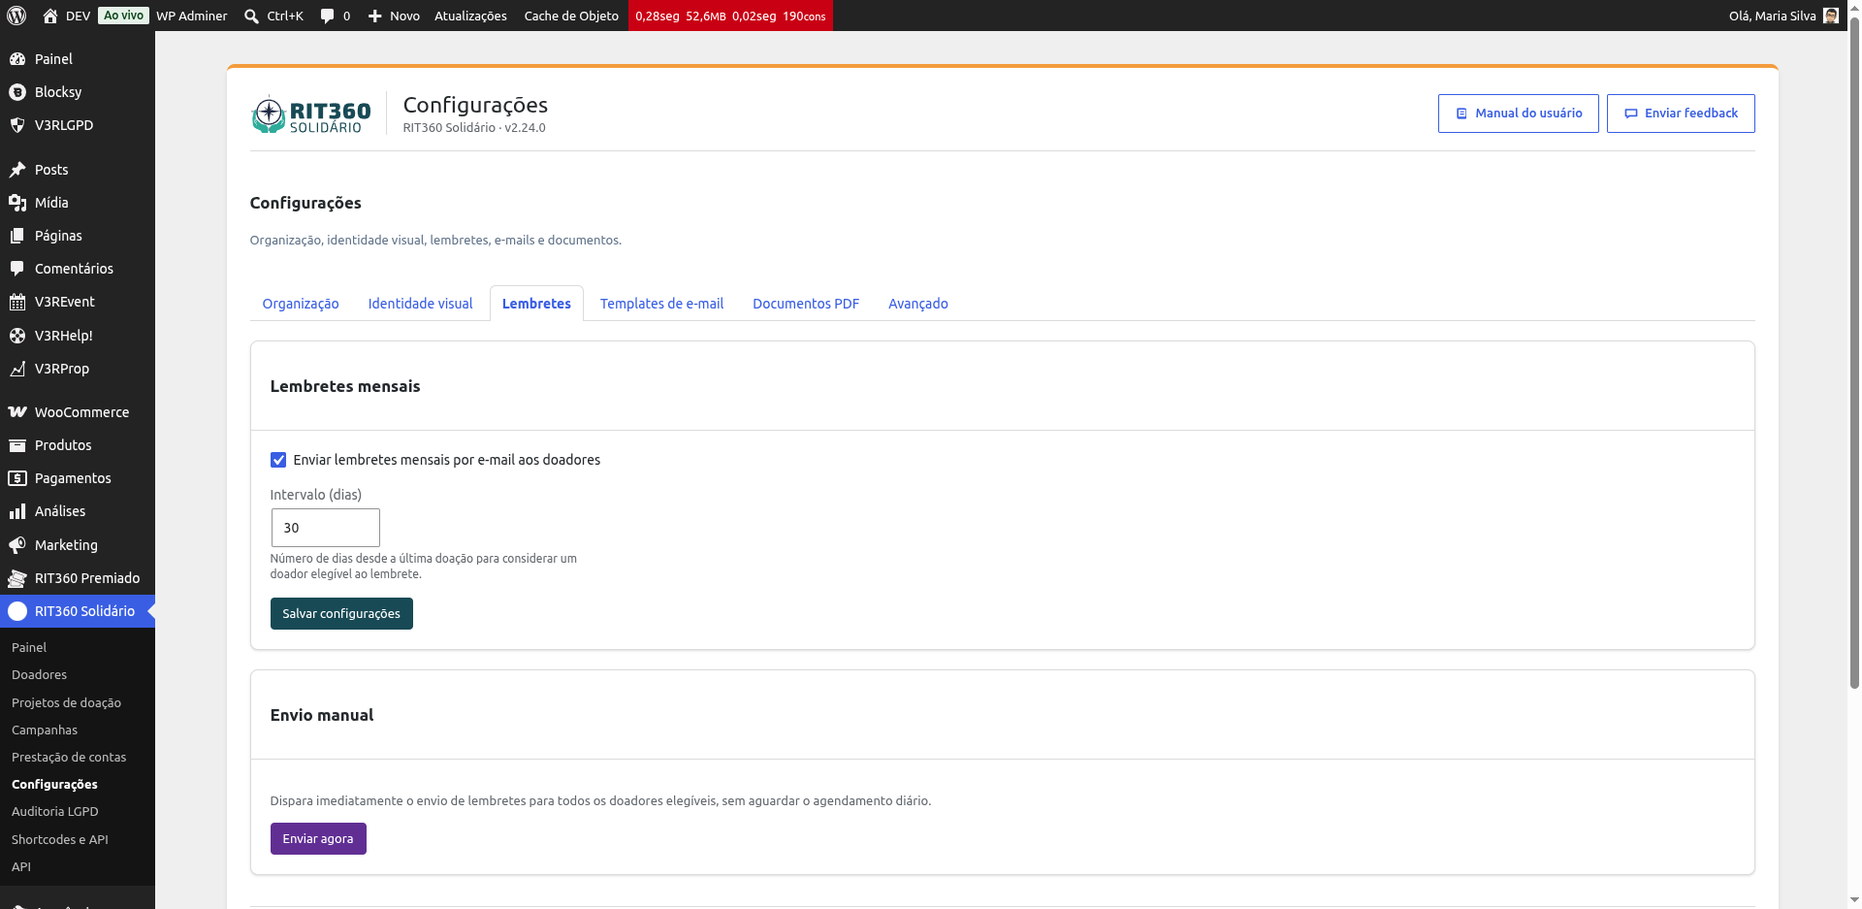
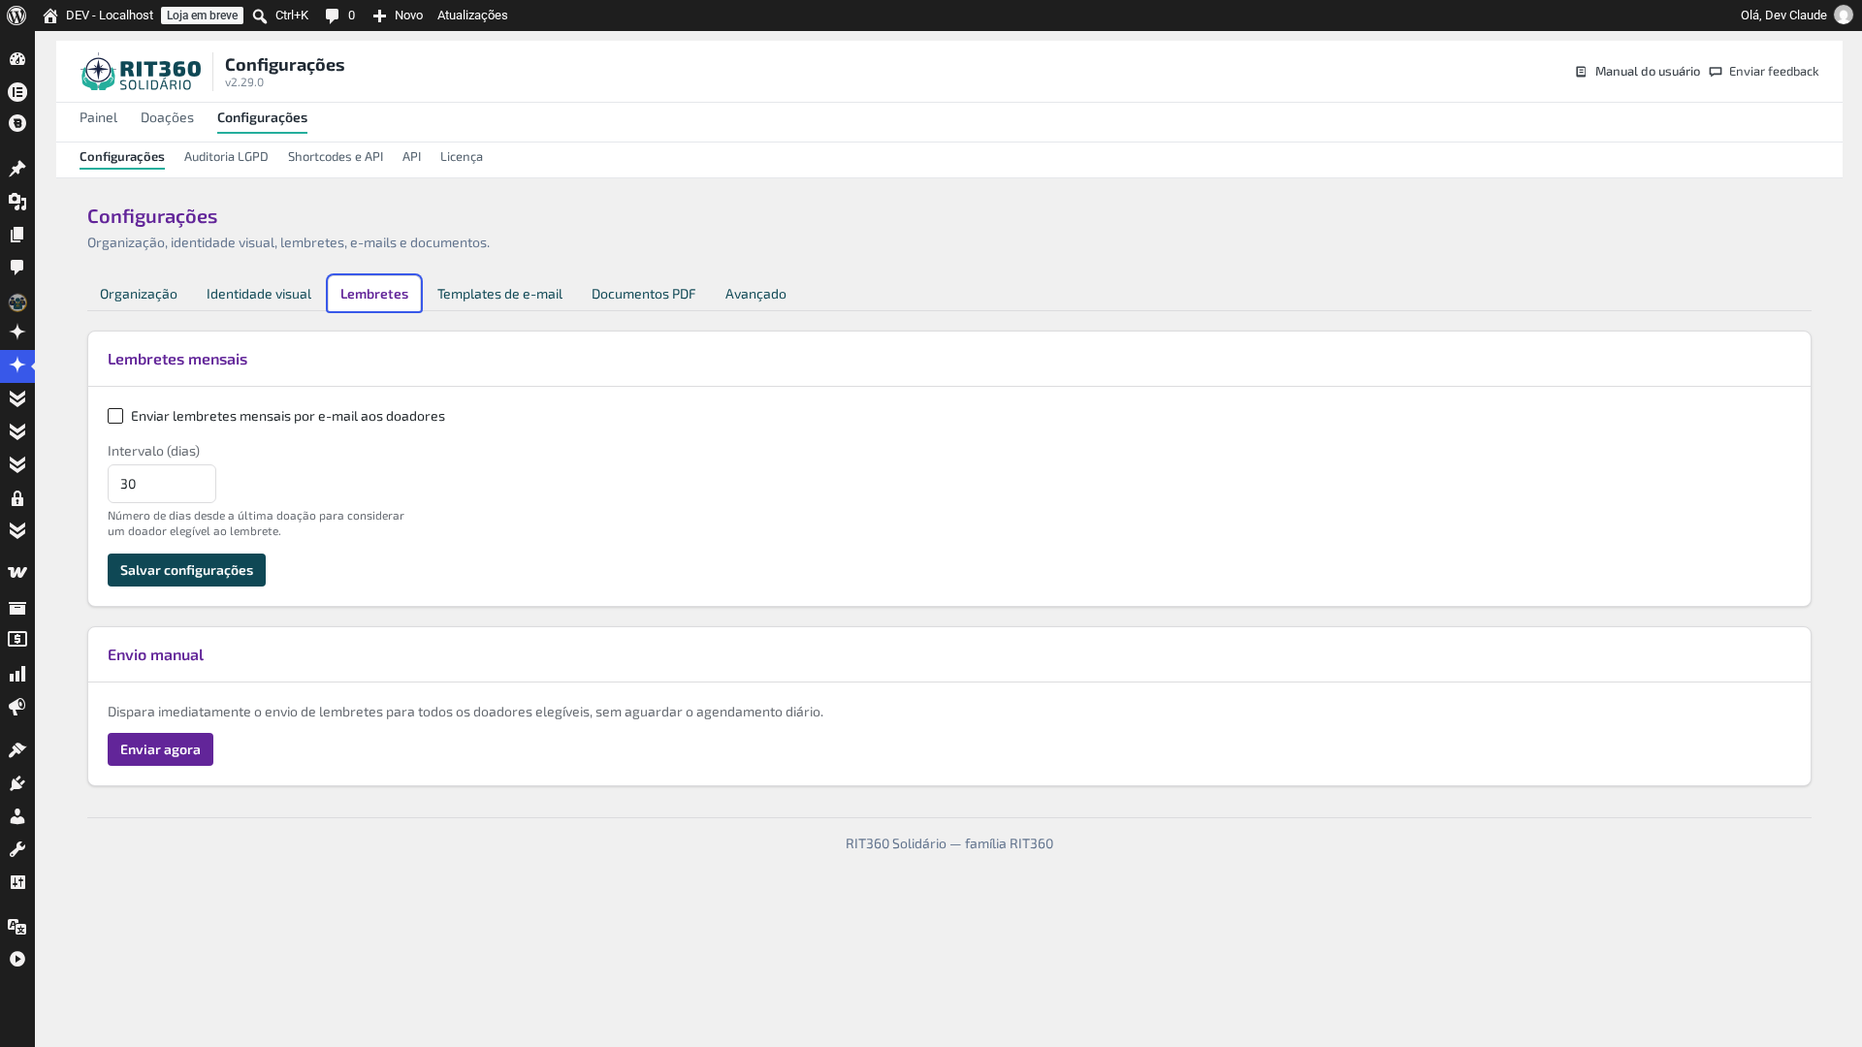
docs(manual): painel com entrada única e barra da família (2.28.0/2.29.0, RIT360-Solidario-Code#76)
Instruções de navegação reescritas para a barra; nova seção sobre cabeçalho,
barra, área de avisos e favoritos antigos; prints recapturados em desktop e
celular. Pendente: print do assistente de configuração inicial.

diff --git a/_manual/roteiro-prints.md b/_manual/roteiro-prints.md
@@ -38,32 +38,49 @@ UI PHP antiga. Recapturar quando houver a próxima mexida no plugin:
 - Esperar a tela carregar antes de capturar. Preferir viewport (não fullPage),
   exceto onde indicado "página inteira".
 
+> **Recaptura 2026-09-14 (plugin v2.29.0, issue #76):** o painel migrou para a peça
+> compartilhada da família — entrada única no menu lateral (`RIT360 Solidário`, sem
+> submenus), cabeçalho de largura cheia (não mais cartão centralizado com borda
+> laranja) e uma **barra de navegação** logo abaixo (Painel · Doações · Configurações,
+> com as sub-abas de cada grupo). As rotas passaram a ser **fragmentos dentro da
+> mesma página** (`admin.php?page=rit360-solidario#/donors`), não mais slugs próprios
+> — os endereços antigos (`page=rit360-solidario-donors` etc.) continuam funcionando
+> por redirecionamento, mas não são mais o caminho a capturar. **Todo o admin foi
+> recapturado** contra esse layout. Novos arquivos: `menu-entrada-unica.png` (+
+> `-mobile`), `painel-mobile.png`, `doacoes-grupo-aberto-mobile.png`,
+> `configuracoes-grupo-aberto-mobile.png`. `setup-wizard.png` **não** foi recapturado
+> (o assistente não tem barra e exigiria forçar o plugin a um estado de setup
+> incompleto, o que altera dados do ambiente — ver pendência abaixo).
+
 ## Admin — logado
 
 | Arquivo | Rota | Deve mostrar |
 |---|---|---|
-| `painel.png` | `/wp-admin/admin.php?page=rit360-solidario` | KPIs + Top 10 doadores |
-| `doadores-lista.png` | `…?page=rit360-solidario-donors` | Busca, tabela de doadores, ações em lote, blocos de exportação (página inteira) |
-| `doador-detalhe.png` | clicar num doador da lista (ex.: Roberto Nascimento) | Dados + Recibos + Declarações |
-| `projetos.png` | `…?page=rit360-solidario-projetos` | Lista de projetos com meta/campanha/padrão/**categoria** (`Doações › Nome do projeto`) + form "Novo projeto" (página inteira) |
-| `campanhas.png` | `…?page=rit360-solidario-campanhas` | Lista de campanhas com progresso vs meta |
-| `prestacao-contas.png` | `…?page=rit360-solidario-prestacao-contas` | Filtro de período + totais + quebra por campanha/projeto + evolução (página inteira) |
-| `config-organizacao.png` | `…?page=rit360-solidario-settings&tab=organizacao` | Formulário de dados da OSC |
-| `config-visual.png` | `…&tab=visual` | Cores + preview |
-| `config-lembretes.png` | `…&tab=lembretes` | Ativar lembretes + intervalo + envio manual |
-| `config-emails.png` | `…&tab=emails` | Templates (assunto+corpo TinyMCE) + botão único "Salvar todos os templates" (página inteira) |
-| `config-pdf.png` | `…&tab=pdf` | Cabeçalho/rodapé/recibo/declaração + pré-visualizar (página inteira) |
-| `config-avancado.png` | `…&tab=avancado` | Reset de rate limit do magic link |
-| `auditoria-lgpd.png` | `…?page=rit360-solidario-lgpd` | Aviso ROPA + tabela de auditoria |
-| `shortcodes-tela.png` | `…?page=rit360-solidario-shortcodes` | Referência dos shortcodes em cards (tag + exemplo copiável + parâmetros), página inteira — v2.7.0 |
-| `setup-wizard.png` | `…?page=bs-setup` | Passo 1 do Setup Wizard (Organização) |
+| `menu-entrada-unica.png` (+ `-mobile`) | menu lateral do WordPress, expandido | A entrada única **RIT360 Solidário**, sem submenus abaixo dela |
+| `painel.png` (+ `-mobile`) | `/wp-admin/admin.php?page=rit360-solidario` | Cabeçalho + barra (Painel · Doações · Configurações) + KPIs/estado vazio |
+| `doadores-lista.png` / `doacoes-grupo-aberto-mobile.png` | `…admin.php?page=rit360-solidario#/donors` | Barra com o grupo **Doações** aberto (Doadores · Projetos de doação · Campanhas · Prestação de contas); busca, tabela, ações em lote, exportações |
+| `doador-detalhe.png` | clicar num doador da lista | Dados + Recibos + Declarações |
+| `projetos.png` (+ `-mobile`) | `…#/projects` | Lista de projetos com meta/campanha/padrão/**categoria** + form "Novo projeto" |
+| `campanhas.png` | `…#/campaigns` | Lista de campanhas com progresso vs meta |
+| `prestacao-contas.png` | `…#/accountability` | Filtro de período + totais + quebra por campanha/projeto + evolução |
+| `config-organizacao.png` / `configuracoes-grupo-aberto-mobile.png` | `…#/settings` | Barra com o grupo **Configurações** aberto (Configurações · Auditoria LGPD · Shortcodes e API · API · Licença) e as sub-abas internas (Organização · Identidade visual · Lembretes · Templates de e-mail · Documentos PDF · Avançado) |
+| `config-visual.png` | `…#/settings/visual` | Cores + preview |
+| `config-lembretes.png` | `…#/settings/lembretes` | Ativar lembretes + intervalo + envio manual |
+| `config-emails.png` | `…#/settings/emails` | Templates (assunto+corpo TinyMCE) + botão único "Salvar todos os templates" |
+| `config-pdf.png` | `…#/settings/pdf` | Cabeçalho/rodapé/recibo/declaração + pré-visualizar |
+| `config-avancado.png` | `…#/settings/avancado` | Reset de rate limit do magic link |
+| `auditoria-lgpd.png` | `…#/lgpd` | Aviso ROPA + tabela de auditoria |
+| `shortcodes-tela.png` | `…#/shortcodes` | Referência dos shortcodes em cards |
+| `api-chaves.png` | `…#/api` | Endereço base, Nova chave, Chaves, Webhooks |
+| `licenca.png` | `…#/license` | Status + ativação |
+| `setup-wizard.png` | `…?page=bs-setup` — **⏳ pendente de recaptura**, exige plugin em modo setup | Passo 1 do assistente (o assistente não tem barra por desenho) |
 | `produto-doacao.png` | editar produto 67 (`/wp-admin/post.php?post=67&action=edit`), aba "Configuração de Doação" | Campos: valores, valor livre, frase de impacto, vídeo |
 | `feedback-modal.png` | qualquer tela do plugin → clicar "Enviar feedback" | Modal de feedback |
 
-## API e integrações — `api-chaves.png` (capturada em v2.24.0)
+## API e integrações — `api-chaves.png` (recapturada em v2.29.0)
 
-Rota: menu **RIT360 Solidário → Shortcodes e API → API** (submenu "API"). Página inteira,
-admin logado, 1920×1080. A tela agrupa numa só captura: **endereço base**, **Nova chave**
+Rota: `admin.php?page=rit360-solidario#/api` (grupo **Configurações** na barra, aba
+**API**). Página inteira, admin logado, 1920×1080. A tela agrupa numa só captura: **endereço base**, **Nova chave**
 (rótulo + escopos + validade), **Chaves** (com estados *Ativa*/*Expirada*/*Revogada*),
 **Novo destino** de webhook, **Webhooks** e **Últimas entregas** (com entrega *failed* +
 tooltip de erro). Referenciada em `modulos/api-integracoes.md` (front-matter `screenshots:

diff --git a/primeiros-passos.md b/primeiros-passos.md
@@ -4,10 +4,10 @@ nav_order: 2
 permalink: /primeiros-passos/
 task: primeiros-passos
 role: admin
-routes: ["#/wp-admin/admin.php?page=bs-setup", "#/wp-admin/admin.php?page=rit360-solidario"]
-screenshots: [setup-wizard, painel, doe-pagina, feedback-modal]
+routes: ["admin.php?page=rit360-solidario#/wizard", "admin.php?page=rit360-solidario"]
+screenshots: [setup-wizard, menu-entrada-unica, painel, doacoes-grupo-aberto-mobile, feedback-modal, doe-pagina]
 source_docs: [PRD#5.4, PRODUCT.md]
-last_verified: 2026-07-21
+last_verified: 2026-09-14
 status: publicado
 ---
 
@@ -36,23 +36,50 @@ Antes de começar, vale entender os dois papéis:
 > desistência — e ainda evita guardar mais dados pessoais do que o necessário
 > (um princípio da LGPD).
 
-## O cabeçalho das telas do plugin
+## Como navegar no painel
 
-Todas as telas do RIT360 Solidário no painel administrativo têm um **cabeçalho**
-no topo, com a logomarca à esquerda e, logo abaixo do título, o nome da seção e a
-**versão instalada** (por exemplo, “RIT360 Solidário · v2.24.0”). É o jeito rápido
-de conferir qual versão você está usando.
+Tudo do RIT360 Solidário mora numa **única entrada** no menu lateral do WordPress
+— não existe mais o menu com um item para cada tela. Ao clicar em **RIT360
+Solidário**, você entra no painel e navega por dentro dele, com três peças:
 
-No canto superior direito ficam dois botões, presentes em **qualquer tela** do
-plugin:
+![Menu lateral com a entrada única](/assets/img/menu-entrada-unica.png)
 
-- **Manual do usuário** — abre este manual on-line.
-- **Enviar feedback** — abre uma janela para você relatar um problema, mandar uma
-  sugestão, deixar um elogio ou registrar um depoimento. Escolha o tipo, escreva a
-  mensagem (seu e-mail já vem preenchido para retorno) e, se quiser, anexe imagens
-  ou um PDF. É o canal direto para falar com a equipe do produto.
+- **Cabeçalho.** No topo de toda tela, com a logomarca à esquerda e, ao lado do
+  título da tela atual, a **versão instalada** (por exemplo, “v2.29.0”) — o jeito
+  rápido de conferir qual versão você está usando. No canto direito ficam dois
+  botões presentes em **qualquer tela**: **Manual do usuário** (abre este manual
+  on-line) e **Enviar feedback** (abre uma janela para você relatar um problema,
+  mandar uma sugestão, deixar um elogio ou registrar um depoimento — escolha o
+  tipo, escreva a mensagem, com seu e-mail já preenchido para retorno, e anexe
+  imagens ou um PDF se quiser).
 
-![A janela “Enviar feedback”](/assets/img/feedback-modal.png)
+  ![A janela “Enviar feedback”](/assets/img/feedback-modal.png)
+
+- **Barra de navegação.** Logo abaixo do cabeçalho, é por ela que você troca de
+  tela: **Painel** (solto) · **Doações** (Doadores, Projetos de doação, Campanhas,
+  Prestação de contas) · **Configurações** (Configurações, Auditoria LGPD,
+  Shortcodes e API, API, Licença — confira na sua tela quais desses grupos e
+  abas aparecem, porque isso pode variar). A tela em que você está fica marcada em
+  verde-azulado, e clicar num grupo abre as abas de dentro dele.
+
+  ![O grupo Doações aberto na barra](/assets/img/doacoes-grupo-aberto-mobile.png)
+
+- **Área de avisos.** Abaixo da barra, os avisos do próprio WordPress (por
+  exemplo, sobre atualização disponível) ganharam um lugar próprio — eles não se
+  misturam mais com o conteúdo da tela.
+
+> 💡 **Favorito antigo continua funcionando**
+>
+> Se você salvou um atalho ou favorito para um endereço antigo (de antes desta
+> versão), ele continua levando à tela certa — inclusive **Configurações** lembra
+> em qual aba você estava. Não precisa refazer os favoritos.
+
+> ⚠ **Configuração inicial incompleta**
+>
+> Enquanto o assistente de configuração não for concluído, a entrada **RIT360
+> Solidário** abre direto o assistente, e a barra de navegação não aparece —
+> ela só existe depois que a configuração inicial está pronta. Veja o passo a
+> passo em [3. O Assistente de configuração](#3-o-assistente-de-configuração-3-passos).
 
 ## 1. Requisitos
 
@@ -107,8 +134,9 @@ doação, gerenciar produtos e reabrir o assistente.
 
 ## 4. Conferir que está tudo pronto
 
-Abra o menu **RIT360 Solidário → Painel**. Ele mostra os indicadores da sua
-operação — no começo, tudo zerado, com um convite para receber a primeira doação.
+Entre em **RIT360 Solidário** — a primeira tela já é o **Painel**. Ele mostra os
+indicadores da sua operação — no começo, tudo zerado, com um convite para
+receber a primeira doação.
 
 ![Painel do RIT360 Solidário](/assets/img/painel.png)
 

diff --git a/guias/campanhas-que-dao-resultado.md b/guias/campanhas-que-dao-resultado.md
@@ -5,10 +5,10 @@ parent: "Guias e boas práticas"
 permalink: /guias/campanhas-que-dao-resultado/
 task: guia-campanhas
 role: admin
-routes: ["#/wp-admin/admin.php?page=rit360-solidario-campanhas", "#/wp-admin/admin.php?page=rit360-solidario-projetos"]
+routes: ["admin.php?page=rit360-solidario#/campaigns", "admin.php?page=rit360-solidario#/projects"]
 screenshots: [campanhas, projetos, transparencia]
 source_docs: [PRODUCT.md, PRD]
-last_verified: 2026-07-15
+last_verified: 2026-09-14
 status: publicado
 ---
 
@@ -68,14 +68,14 @@ ninguém doa hoje o que pode doar “qualquer dia”.
 
 ## Passo 3 — Monte no plugin
 
-1. Em **RIT360 Solidário → Projetos de doação**, crie (ou ajuste) os projetos da
-   campanha: nome, valores sugeridos, valor livre e, se quiser, a meta do
-   projeto. Enriqueça a página com imagem, **frase de impacto**, vídeo e
-   descrição — isso aumenta a conversão.
+1. Em **RIT360 Solidário**, grupo **Doações** na barra, aba **Projetos de
+   doação**, crie (ou ajuste) os projetos da campanha: nome, valores sugeridos,
+   valor livre e, se quiser, a meta do projeto. Enriqueça a página com imagem,
+   **frase de impacto**, vídeo e descrição — isso aumenta a conversão.
 
    ![Projetos de doação](/assets/img/projetos.png)
 
-2. Em **RIT360 Solidário → Campanhas**, crie a campanha: nome, descrição, meta,
+2. Na mesma barra, aba **Campanhas**, crie a campanha: nome, descrição, meta,
    início e prazo. Depois, **atribua os projetos** a ela.
 
    ![Campanhas](/assets/img/campanhas.png)
@@ -112,7 +112,8 @@ O fim de uma campanha é o começo da próxima. Quem se sente reconhecido e vê 
 dinheiro chegou onde deveria, doa de novo.
 
 - Todo doador já recebe **agradecimento e recibo automáticos**. Personalize o
-  tom desses e-mails em [Configurações → Templates de e-mail](/modulos/configuracoes/).
+  tom desses e-mails na aba **Templates de e-mail**, dentro de
+  [Configurações](/modulos/configuracoes/).
 - Ative o **lembrete mensal** para convidar quem optou por recebê-lo a repetir a
   doação (recorrência “soft”, sem assinatura e com cancelamento em um clique).
 - Feche a campanha com uma **prestação de contas**: gere o relatório em PDF/CSV/XLSX

diff --git a/modulos/index.md b/modulos/index.md
@@ -8,8 +8,11 @@ permalink: /modulos/
 # Módulos
 
 Referência tela a tela do RIT360 Solidário. Cada página descreve o que o módulo
-faz e todas as suas opções. Os módulos ficam no menu **RIT360 Solidário** do
-painel do WordPress; os fluxos do doador acontecem no site público.
+faz e todas as suas opções. Todos os módulos administrativos ficam dentro da
+entrada única **RIT360 Solidário** do menu lateral do WordPress — você troca
+entre eles pela barra de navegação do painel (veja
+[Como navegar no painel](/primeiros-passos/#como-navegar-no-painel)); os fluxos
+do doador acontecem no site público.
 
 ## No painel administrativo
 
@@ -33,12 +36,14 @@ painel do WordPress; os fluxos do doador acontecem no site público.
 - [**Shortcodes**](/modulos/shortcodes/) — para montar páginas no seu construtor.
 - [**API e integrações**](/modulos/api-integracoes/) — conecte o plugin ao n8n e outros sistemas (API REST e webhooks).
 
-## O cabeçalho das telas
+## Cabeçalho, barra e avisos
 
 No topo de todas as telas do plugin há um **cabeçalho** com a logomarca, o nome da
-seção e a **versão instalada**. No canto direito ficam o link para este **Manual do
-usuário** e o botão **Enviar feedback** — por ele você fala direto com a equipe
-(relatar um problema, sugerir uma melhoria, deixar um elogio ou registrar um
-depoimento). Veja os detalhes em [Primeiros passos](/primeiros-passos/#o-cabecalho-das-telas-do-plugin).
+seção e a **versão instalada**, e logo abaixo dele a **barra de navegação** por
+onde você troca de tela. No canto direito do cabeçalho ficam o link para este
+**Manual do usuário** e o botão **Enviar feedback** — por ele você fala direto com
+a equipe (relatar um problema, sugerir uma melhoria, deixar um elogio ou registrar
+um depoimento). Veja os detalhes em
+[Como navegar no painel](/primeiros-passos/#como-navegar-no-painel).
 
 ![Modal de envio de feedback](/assets/img/feedback-modal.png)

diff --git a/modulos/api-integracoes.md b/modulos/api-integracoes.md
@@ -5,10 +5,10 @@ parent: "Módulos"
 permalink: /modulos/api-integracoes/
 task: modulo-api-integracoes
 role: admin
-routes: ["#/wp-admin/admin.php?page=rit360-solidario-shortcodes"]
+routes: ["admin.php?page=rit360-solidario#/api"]
 screenshots: [api-chaves]
 source_docs: [PRODUCT.md, CHANGELOG.md]
-last_verified: 2026-07-21
+last_verified: 2026-09-14
 status: publicado
 ---
 
@@ -20,7 +20,8 @@ qualquer aplicativo que fale HTTP. Com ela você pode, por exemplo, mandar cada 
 doação para uma planilha, avisar a equipe no chat quando bater a meta de uma campanha,
 ou criar campanhas a partir de outro sistema.
 
-Tudo é gerenciado no menu **RIT360 Solidário → Shortcodes e API**, na aba **API**.
+Tudo é gerenciado em **RIT360 Solidário**, grupo **Configurações** na barra de
+navegação, aba **API**.
 
 > 💡 **Nota — para quem é esta página**
 >
@@ -52,7 +53,7 @@ está acessando e **o que essa integração pode fazer** (os escopos).
 
 ### Criar uma chave
 
-1. Abra **RIT360 Solidário → Shortcodes e API** e vá à aba **API**.
+1. Entre em **RIT360 Solidário**, abra o grupo **Configurações** na barra e vá à aba **API**.
 2. Em **Chaves de integração**, clique em **Nova chave**.
 3. Dê um **nome** que ajude a lembrar para que serve (ex.: "n8n — planilha de doações").
 4. Marque as **permissões (escopos)** que essa chave precisa — e **apenas** essas (veja

diff --git a/modulos/shortcodes.md b/modulos/shortcodes.md
@@ -5,10 +5,10 @@ parent: "Módulos"
 permalink: /modulos/shortcodes/
 task: modulo-shortcodes
 role: admin
-routes: ["#/wp-admin/admin.php?page=rit360-solidario-shortcodes"]
+routes: ["admin.php?page=rit360-solidario#/shortcodes"]
 screenshots: [shortcodes-tela]
 source_docs: [PRODUCT.md]
-last_verified: 2026-07-21
+last_verified: 2026-09-14
 status: publicado
 ---
 
@@ -19,9 +19,10 @@ Shortcodes são pequenos códigos que você cola em qualquer página, post ou co
 do RIT360 Solidário. É assim que você monta o hotsite de uma campanha com as peças do
 plugin.
 
-No painel, o menu **RIT360 Solidário → Shortcodes e API** traz esta mesma referência, com
-um botão **Copiar** ao lado de cada exemplo. A aba **API** dessa mesma tela cuida das
-integrações com o n8n e outros sistemas — veja [API e integrações](/modulos/api-integracoes/).
+No painel, entre em **RIT360 Solidário**, abra o grupo **Configurações** na barra de
+navegação e escolha **Shortcodes e API** — a tela traz esta mesma referência, com um
+botão **Copiar** ao lado de cada exemplo. A aba **API**, ao lado dela nesse mesmo grupo,
+cuida das integrações com o n8n e outros sistemas — veja [API e integrações](/modulos/api-integracoes/).
 
 ![Tela Shortcodes no painel](/assets/img/shortcodes-tela.png)
 

diff --git a/modulos/licenca.md b/modulos/licenca.md
@@ -5,10 +5,10 @@ parent: "Módulos"
 permalink: /modulos/licenca/
 task: modulo-licenca
 role: admin
-routes: ["#/wp-admin/admin.php?page=rit360-solidario-license"]
+routes: ["admin.php?page=rit360-solidario#/license"]
 screenshots: [licenca]
 source_docs: [PRODUCT.md]
-last_verified: 2026-08-28
+last_verified: 2026-09-14
 status: publicado
 ---
 
@@ -24,13 +24,14 @@ status: publicado
 
 ## Onde fica
 
-Menu **RIT360 Solidário → Licença**.
+Entre em **RIT360 Solidário** e abra o grupo **Configurações** na barra de
+navegação; a aba **Licença** é a última desse grupo.
 
 ![Licença — nenhuma ativada](/assets/img/licenca.png)
 
 ## Como ativar
 
-1. Abra **RIT360 Solidário → Licença**.
+1. Abra **RIT360 Solidário**, grupo **Configurações** na barra, aba **Licença**.
 2. No bloco **Ativar licença**, cole a **chave de licença** (formato `V3RL-XXXX-XXXX-XXXX-XXXX`) no
    campo **Chave de licença**.
 3. Clique em **Ativar**.

diff --git a/modulos/painel.md b/modulos/painel.md
@@ -5,17 +5,18 @@ parent: "Módulos"
 permalink: /modulos/painel/
 task: modulo-painel
 role: admin
-routes: ["#/wp-admin/admin.php?page=rit360-solidario"]
+routes: ["admin.php?page=rit360-solidario"]
 screenshots: [painel]
 source_docs: [PRODUCT.md]
-last_verified: 2026-07-21
+last_verified: 2026-09-14
 status: publicado
 ---
 
 # Painel
 
-O Painel é a primeira tela do menu **RIT360 Solidário**. Ele resume a sua
-operação de doações no período escolhido.
+O Painel é a primeira tela ao entrar em **RIT360 Solidário** — o item **Painel**
+solto na barra de navegação, antes dos grupos Doações e Configurações. Ele resume
+a sua operação de doações no período escolhido.
 
 ![Painel](/assets/img/painel.png)
 

diff --git a/modulos/auditoria-lgpd.md b/modulos/auditoria-lgpd.md
@@ -5,10 +5,10 @@ parent: "Módulos"
 permalink: /modulos/auditoria-lgpd/
 task: modulo-lgpd
 role: admin
-routes: ["#/wp-admin/admin.php?page=rit360-solidario-lgpd"]
+routes: ["admin.php?page=rit360-solidario#/lgpd"]
 screenshots: [auditoria-lgpd]
 source_docs: [solidario-privacy-ropa.md, solidario-privacy-ropa.md#26, solidario-privacy-ropa.md#27, solidario-privacy-ropa.md#29]
-last_verified: 2026-07-21
+last_verified: 2026-09-14
 status: publicado
 ---
 

diff --git a/modulos/configuracoes.md b/modulos/configuracoes.md
@@ -5,10 +5,10 @@ parent: "Módulos"
 permalink: /modulos/configuracoes/
 task: modulo-configuracoes
 role: admin
-routes: ["#/wp-admin/admin.php?page=rit360-solidario-settings"]
+routes: ["admin.php?page=rit360-solidario#/settings"]
 screenshots: [config-organizacao, config-visual, config-lembretes, config-emails, config-pdf, config-avancado]
 source_docs: [PRODUCT.md]
-last_verified: 2026-07-21
+last_verified: 2026-09-14
 status: publicado
 ---
 

diff --git a/modulos/prestacao-contas.md b/modulos/prestacao-contas.md
@@ -5,10 +5,10 @@ parent: "Módulos"
 permalink: /modulos/prestacao-contas/
 task: modulo-prestacao-contas
 role: admin
-routes: ["#/wp-admin/admin.php?page=rit360-solidario-prestacao-contas"]
+routes: ["admin.php?page=rit360-solidario#/accountability"]
 screenshots: [prestacao-contas]
 source_docs: [PRODUCT.md]
-last_verified: 2026-07-21
+last_verified: 2026-09-14
 status: publicado
 ---
 

diff --git a/modulos/doadores.md b/modulos/doadores.md
@@ -5,10 +5,10 @@ parent: "Módulos"
 permalink: /modulos/doadores/
 task: modulo-doadores
 role: admin
-routes: ["#/wp-admin/admin.php?page=rit360-solidario-donors"]
+routes: ["admin.php?page=rit360-solidario#/donors"]
 screenshots: [doadores-lista, doador-detalhe]
 source_docs: [PRODUCT.md]
-last_verified: 2026-07-21
+last_verified: 2026-09-14
 status: publicado
 ---
 
